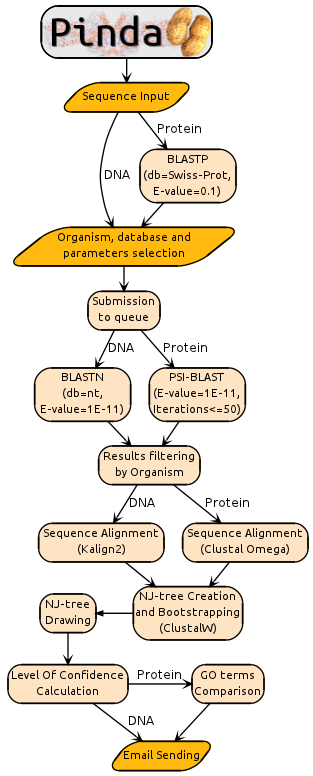
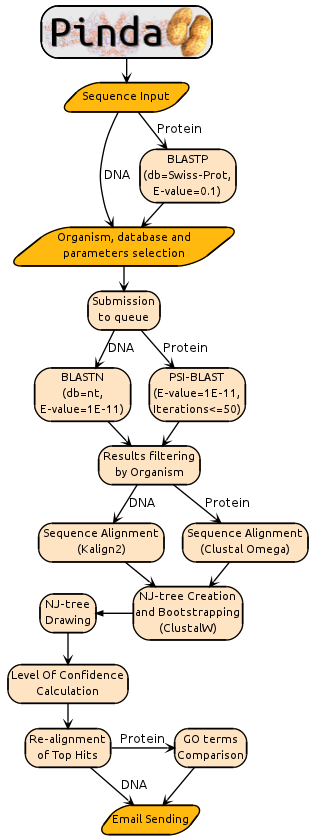
Made the bash scripts die on command failure, added a caution message to DNA jobs, change to the flowchart etc.

diff --git a/documentation.html b/documentation.html
@@ -1,7 +1,7 @@
 <!DOCTYPE HTML PUBLIC "-//W3C//DTD HTML 4.01 Transitional//EN">
 <HTML><HEAD><TITLE>Documentation page of Pinda.cgi</TITLE>
 </HEAD><BODY>
-<center><a href="http://orion.mbg.duth.gr/Pinda/cgi/Pinda.cgi"><H1>Pinda - Pipeline for INtraspecies Duplication Analysis</H1></a></center><HR>
+<center><a href="http://orion.mbg.duth.gr/Pinda"><H1>Pinda - Pipeline for INtraspecies Duplication Analysis</H1></a></center><HR>
 <H2>NAME</H2>
 
 <i><font size="+1">Pinda</font></i> -- <font size="+1"><b>P</b></font>ipeline for <font size="+1"><b>In</b></font>traspecies <font size="+1"><b>D</b></font>uplication <font size="+1"><b>A</b></font>nalysis
@@ -13,7 +13,7 @@ duplications in an organism species of choice.
 
 <H2>AVAILABILITY</H2>
 
-<i>Pinda</i> is located at <font size="-1"><a href="http://orion.mbg.duth.gr/Pinda/cgi/Pinda.cgi">http://orion.mbg.duth.gr/Pinda/cgi/Pinda.cgi</a></font>, whereas the Source Code can be obtained at <font size="-1"><a href="https://github.com/dgkontopoulos/Pinda">https://github.com/dgkontopoulos/Pinda</a></font>.
+<i>Pinda</i> is located at <font size="-1"><a href="http://orion.mbg.duth.gr/Pinda">http://orion.mbg.duth.gr/Pinda</a></font>, whereas the Source Code can be obtained at <font size="-1"><a href="https://github.com/dgkontopoulos/Pinda">https://github.com/dgkontopoulos/Pinda</a></font>.
 
 <H2>USAGE</H2>
 
@@ -21,7 +21,7 @@ At <i>Pinda</i>'s index page, you may enter a Protein or DNA sequence. After cli
 
 <H2>FLOWCHART</H2>
 
-<img src="http://orion.mbg.duth.gr/Pinda/flowchart.png">
+<center><img src="http://orion.mbg.duth.gr/Pinda/flowchart.png"></center>
 
 <H2>AUTHOR</H2>
 
